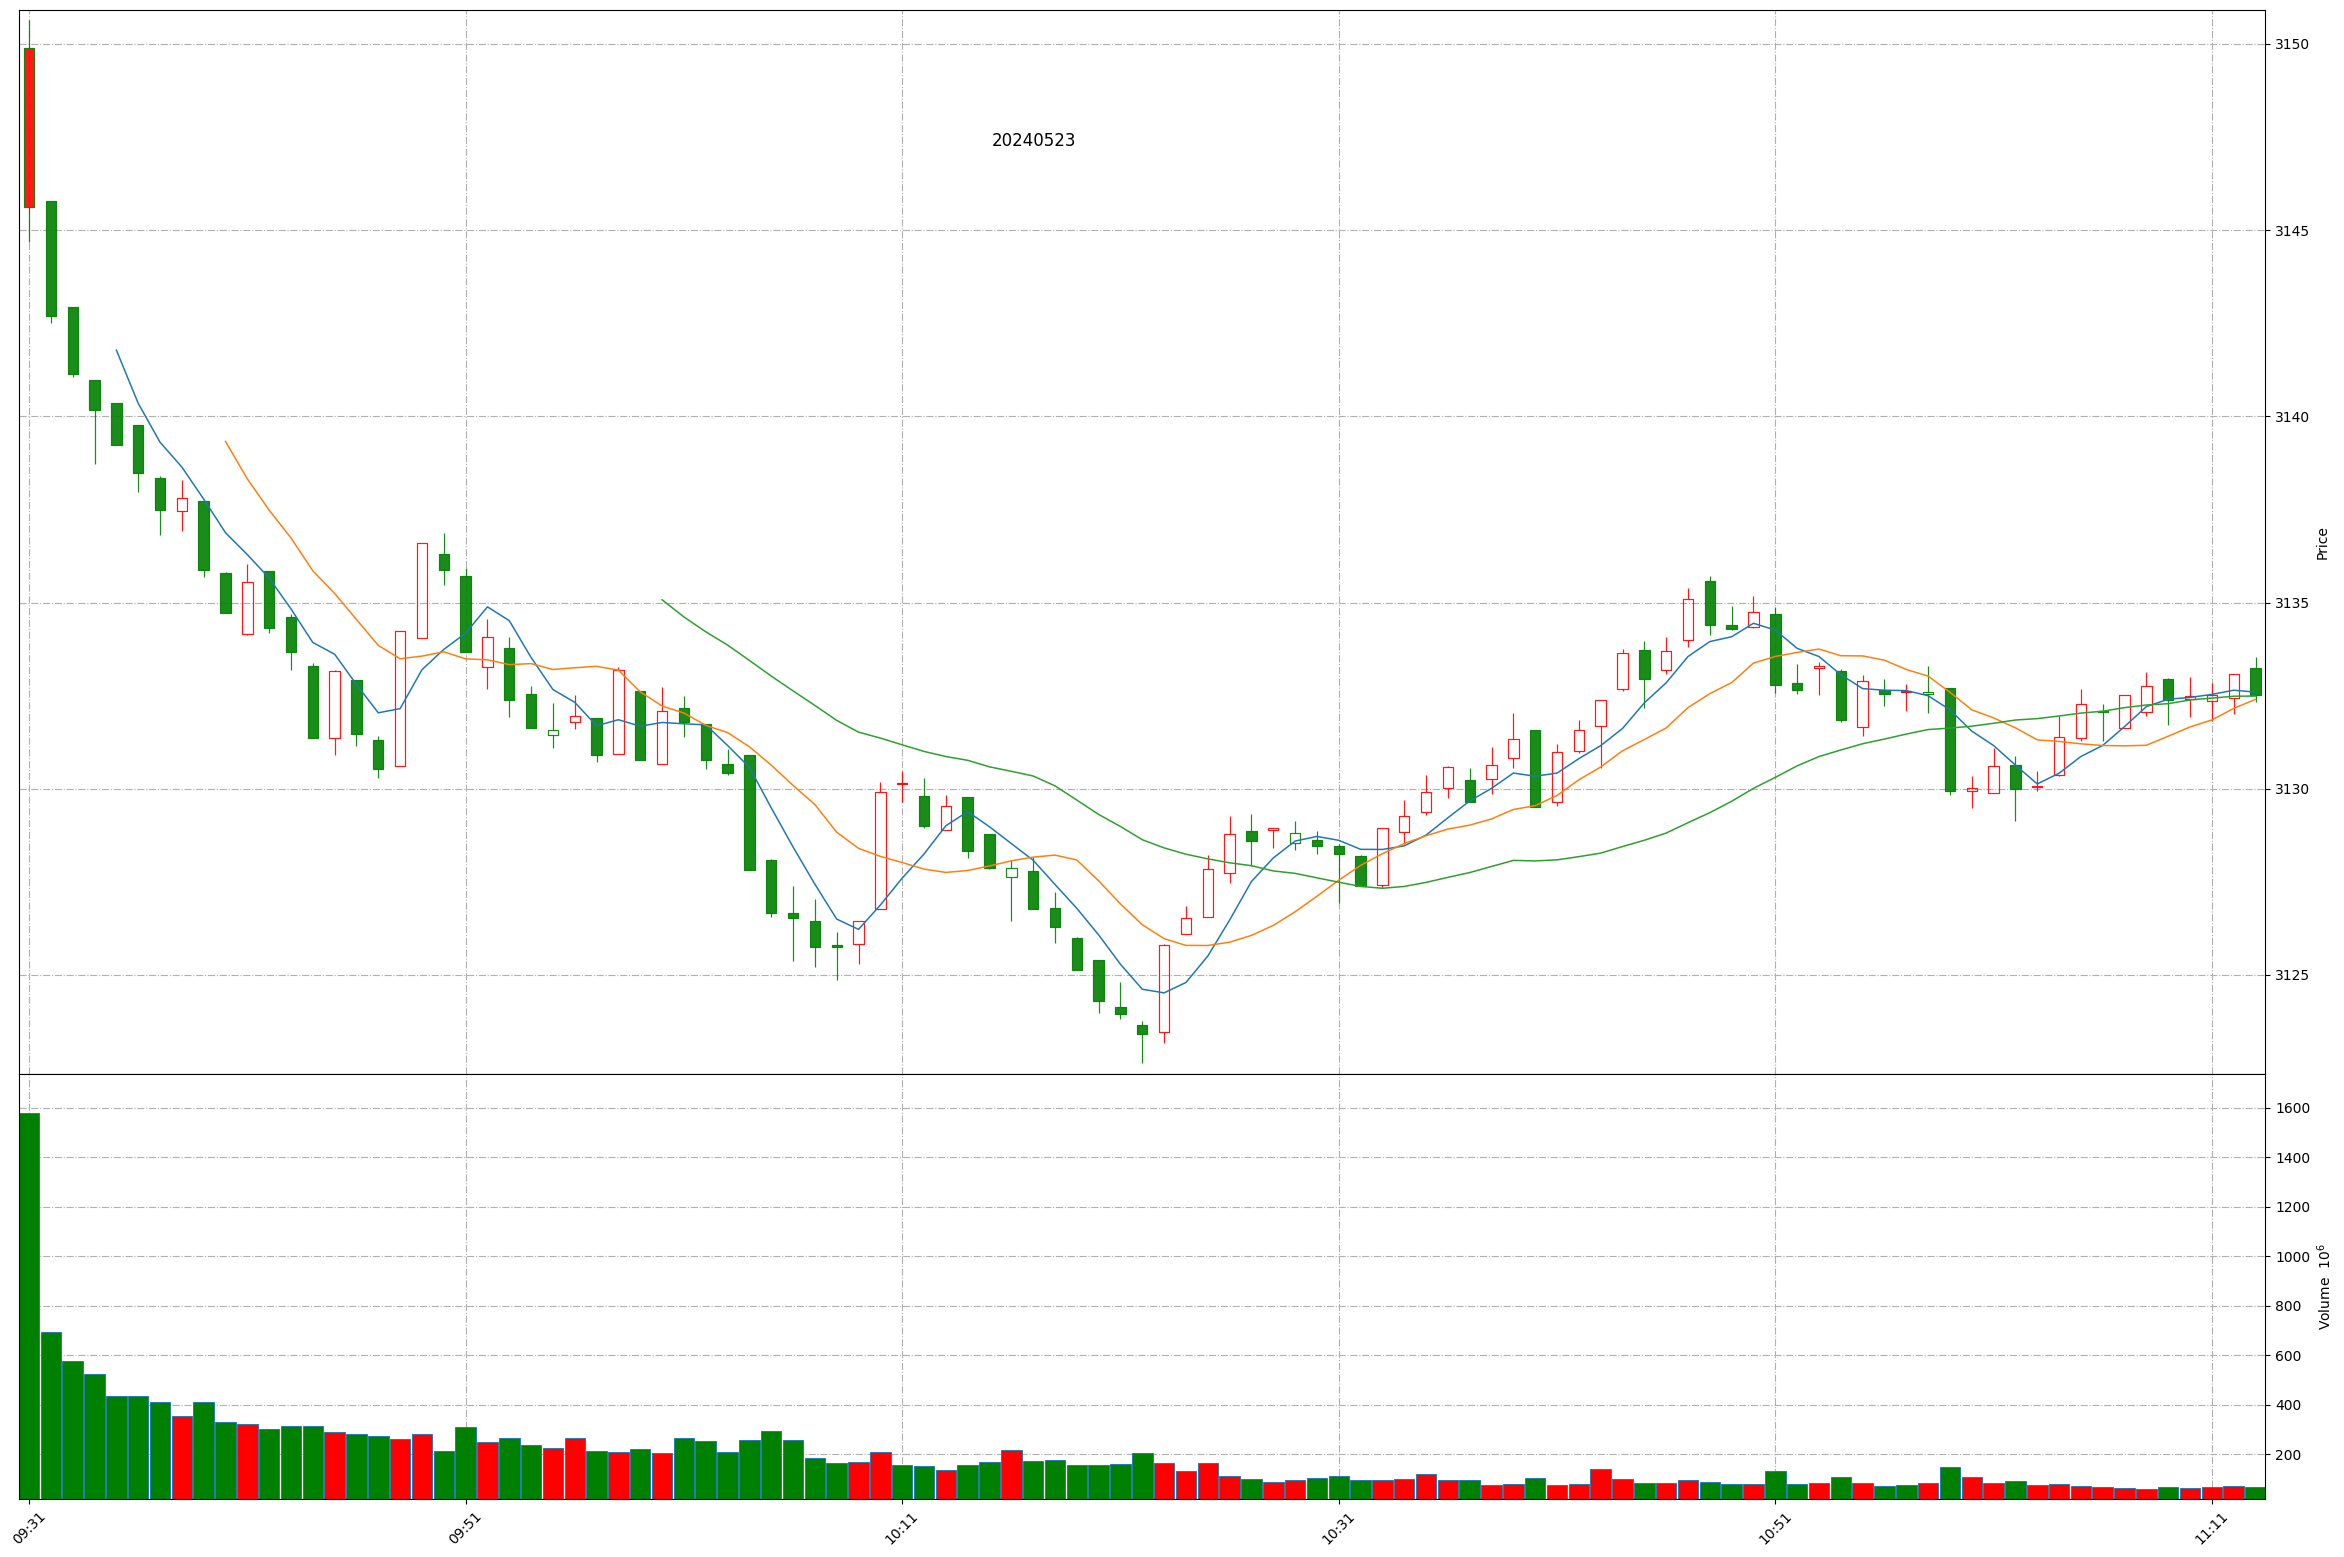
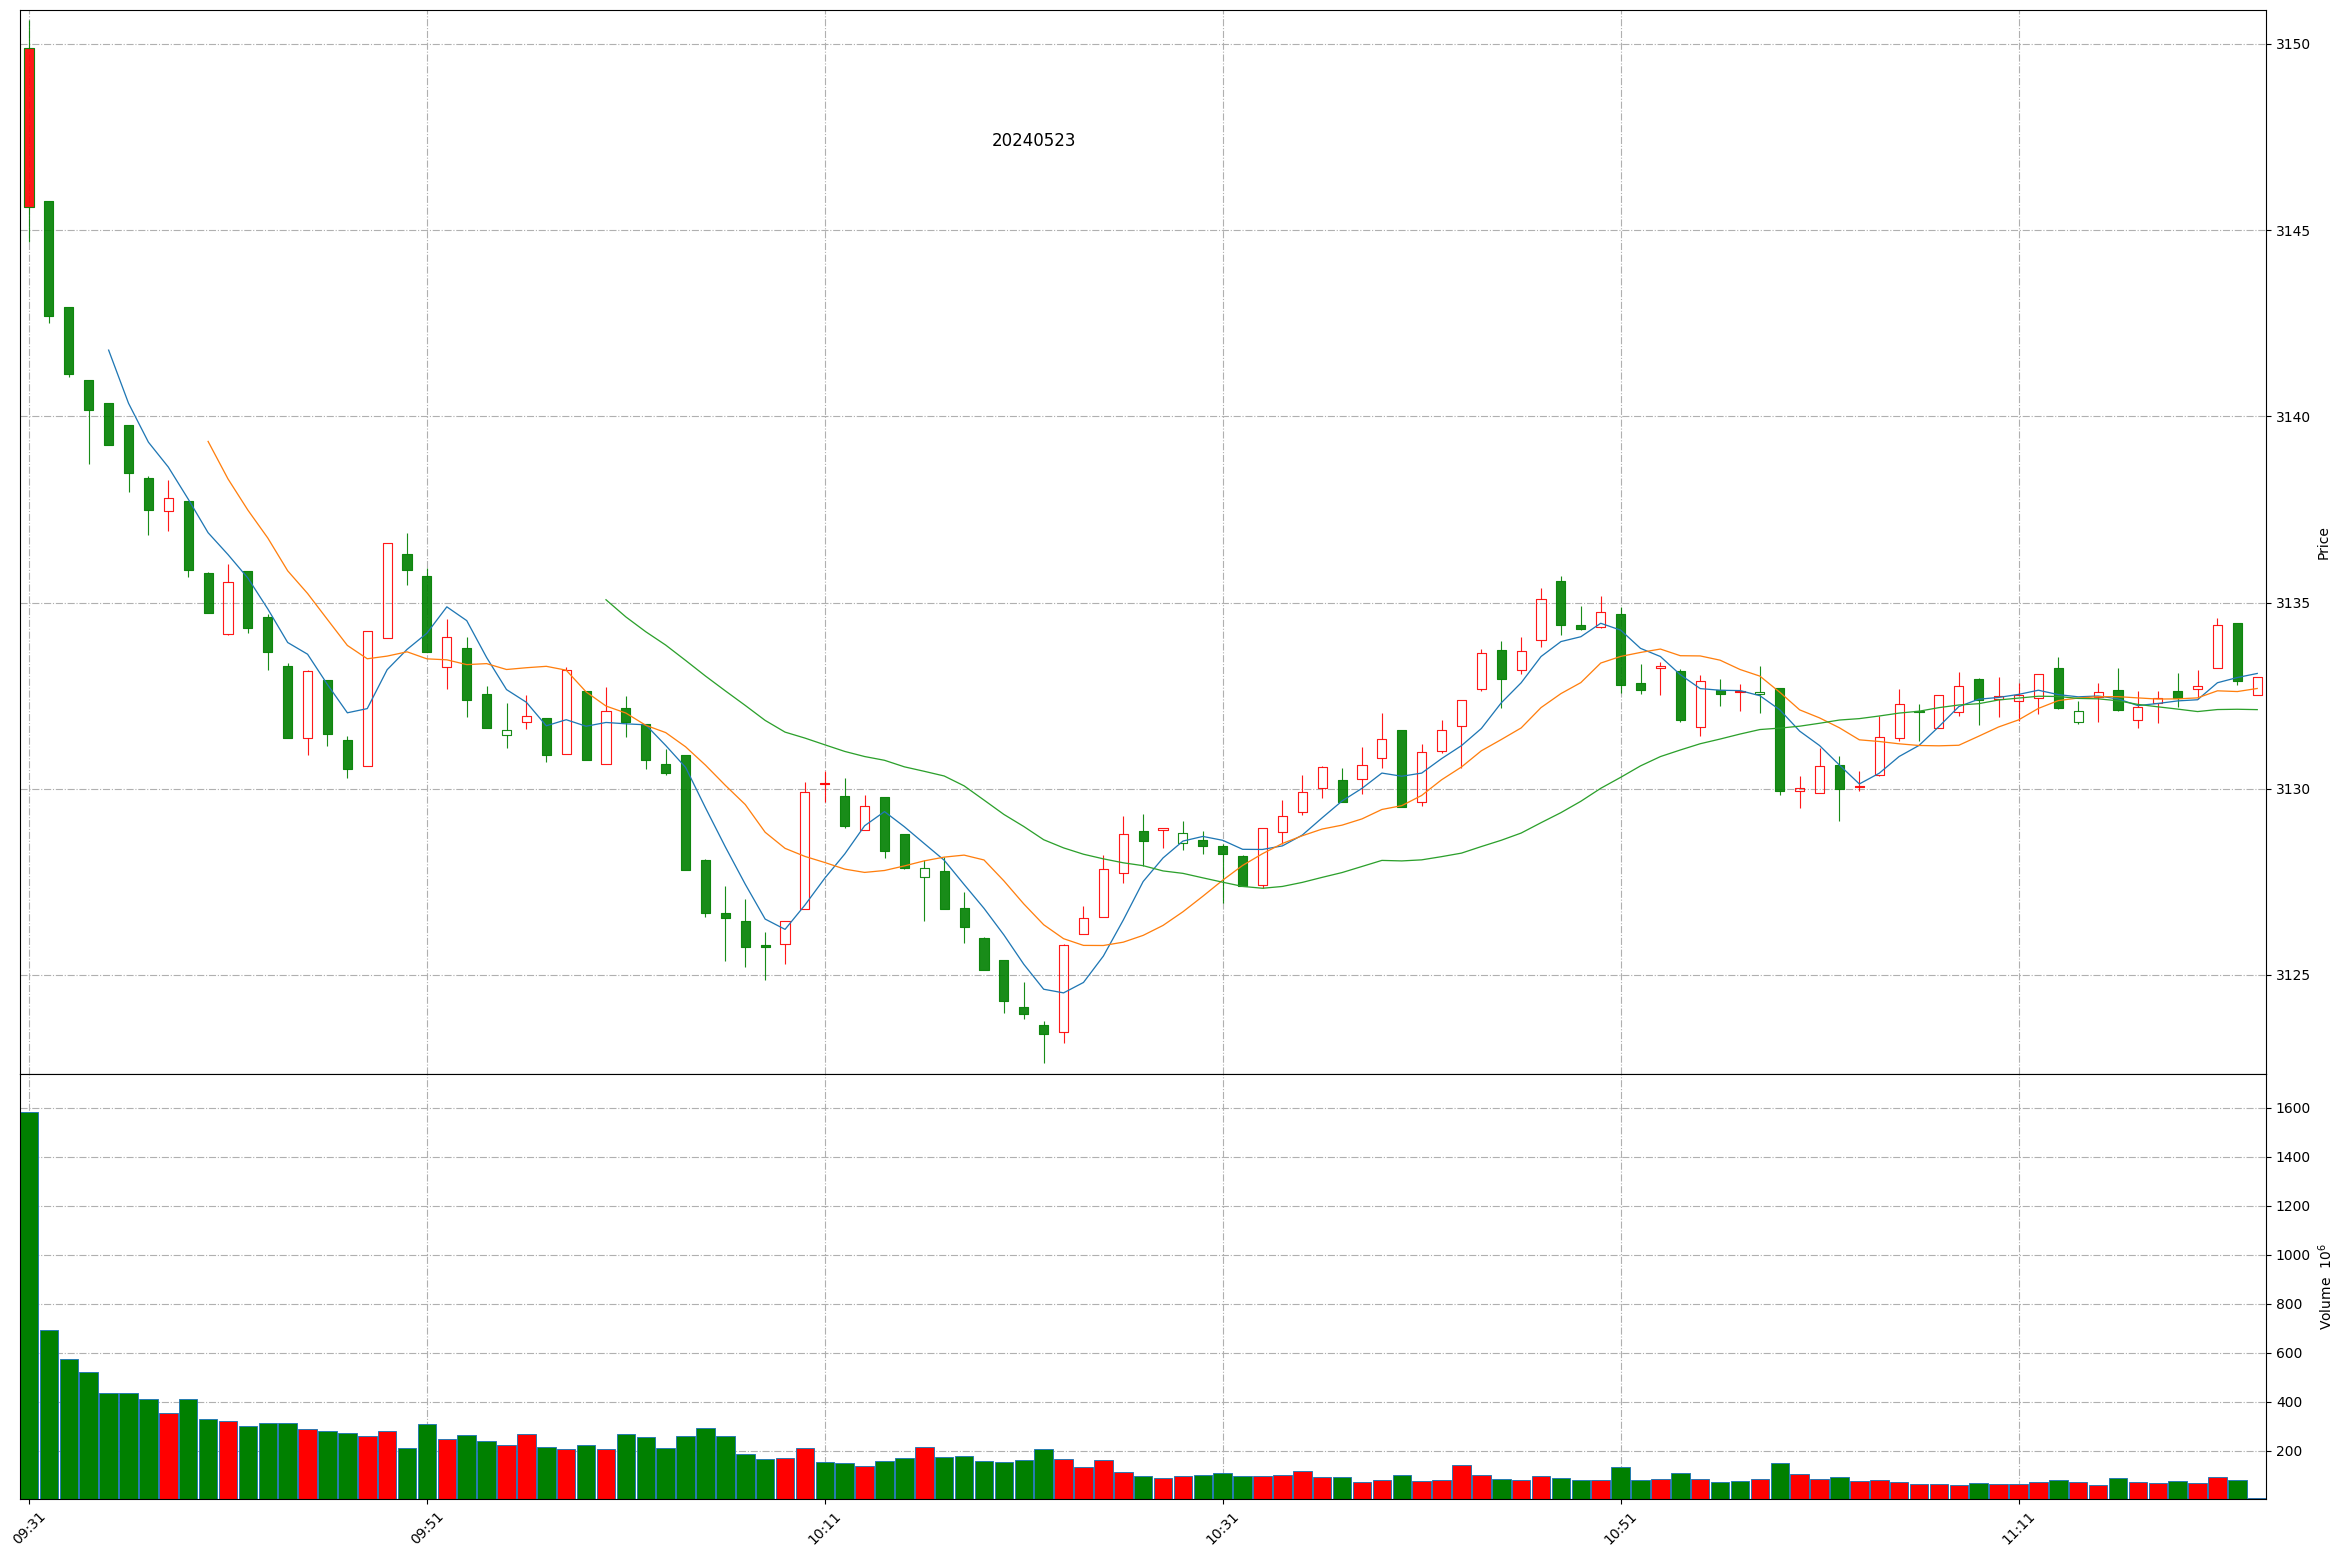
Github action update at 2024-05-23 11:22:20.

Changed region(s): [[0.0311, 0.2158, 0.9654, 0.6474], [0.0, 0.8324, 0.9654, 0.9865], [0.0, 0.185, 0.0311, 0.2158]]

diff --git a/README.md b/README.md
@@ -1,11 +1,11 @@
 
 # Daily-A-share-market-quotes 每日 A 股指数（5min 更新）- 20240523
 
-### 上证指数 20240523 11:13
+### 上证指数 20240523 11:22
 ![](./fig/2024/5/20240523-sh000001.png)
 
-### 深证成指 20240523 11:13
+### 深证成指 20240523 11:22
 ![](./fig/2024/5/20240523-sz399001.png)
 
-### 北证50 20240523 11:13
+### 北证50 20240523 11:22
 ![](./fig/2024/5/20240523-bj899050.png)
